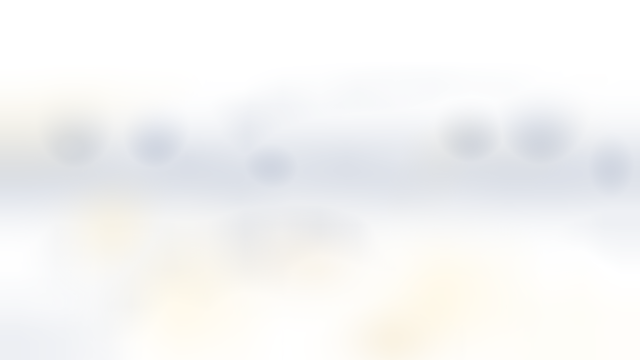
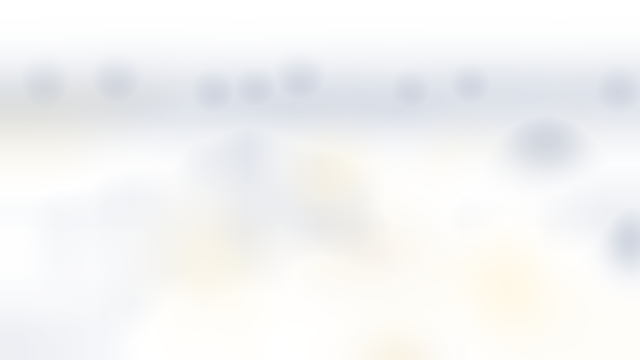
Pinewatch v16 fix pass: remove shore wedges, re-bake tintmap, attach picnic to van
- shore_islet + shore_edge_bank removed (read as broken floating
  terrain chunks); fishing gear now sits on grass bank
- tintmap re-baked for v16: treeline shade band y172 -> y95, canopy
  pools at new tree positions, drifts/pools updated — kills the
  ghost horizontal band mid-field + backdrop seam
- picnic cluster moved next to van (rest corner attaches to hero)
- tripod nudged so pot hangs over the flames
- leftmost tree scales balanced; right-edge broadleaf added (U-frame)
- PLAN 5.8: layout-authoring workflow decision recorded

diff --git a/tools/tb_tintmap.py b/tools/tb_tintmap.py
@@ -80,28 +80,34 @@ def bake():
     cool_a = np.clip(-f, 0.0, 1.0) * FIELD_A_COOL * sky
 
     # ---- 2. treeline shade + under-canopy pools ----------------------
-    band = np.exp(-((y - 172.0) / 46.0) ** 2)             # row-5 grass band
+    # v16 layout: broadleaf wall feet at y~68-80 -> shade band hugs the
+    # wall base and dies into the field by ~y140
+    band = np.exp(-((y - 100.0) / 42.0) ** 2)             # treeline foot band
     band *= 0.75 + 0.25 * smooth_noise(rng, 60)  # ragged edge
     shade = band * 0.85
-    for cx, cy, r, sx, sy in ((74, 150, 78, 1.0, 0.8),    # pine W
-                              (156, 150, 70, 1.0, 0.8),   # pine W2
-                              (540, 145, 80, 1.0, 0.8),   # pine E
-                              (610, 170, 70, 1.0, 0.9),   # bamboo/spirit E
-                              (470, 145, 62, 1.1, 0.85),  # cabin NE side
-                              (270, 168, 66, 1.2, 0.8)):  # flamboyant S
+    for cx, cy, r, sx, sy in ((44, 92, 70, 1.0, 0.8),     # tree W1
+                              (116, 88, 66, 1.0, 0.8),    # tree W2
+                              (214, 94, 62, 1.0, 0.8),    # tree W3
+                              (300, 86, 64, 1.0, 0.8),    # tree W4
+                              (255, 92, 60, 1.1, 0.8),    # flamboyant
+                              (410, 94, 62, 1.0, 0.8),    # tree W5
+                              (470, 88, 58, 1.0, 0.8),    # tree W6
+                              (618, 92, 66, 1.0, 0.8),    # tree E
+                              (545, 140, 72, 1.1, 0.85),  # cabin NE side
+                              (630, 240, 58, 0.8, 1.0)):  # right-edge tree
         shade = np.maximum(shade, blob(x, y, cx, cy, r, sx, sy))
     cool_a = np.maximum(cool_a, shade * SHADE_A)
 
     # ---- 3. dry-warm drifts ------------------------------------------
-    dry = np.maximum(blob(x, y, 390, 340, 60, 1.3, 0.8),  # path mouth
-                     blob(x, y, 300, 258, 78, 1.4, 0.9))  # tent/fire flat
+    dry = np.maximum(blob(x, y, 400, 360, 60, 1.3, 0.8),  # path mouth
+                     blob(x, y, 368, 250, 82, 1.4, 0.9))  # fire hub flat
     dry_a = dry * DRY_A
 
     # ---- 4. sun pools -------------------------------------------------
     sun = np.zeros((H, W))
-    for cx, cy, r in ((185, 292, 105),                    # open field W
-                      (445, 300, 96),                     # picnic side
-                      (112, 228, 74)):                    # van clearing
+    for cx, cy, r in ((210, 260, 95),                     # open field W
+                      (505, 285, 88),                     # van/rest side
+                      (330, 175, 70)):                    # centre field
         sun = np.maximum(sun, blob(x, y, cx, cy, r))
     sun_a = sun * SUN_A
 

diff --git a/docs/PLAN_art_craft.md b/docs/PLAN_art_craft.md
@@ -302,3 +302,22 @@ flecks. Needs a small shore-rock/reed gen (Phase 5 tail).
 **Plan order:** 5.1-interim filter → 5.0 lighting → 5.3 shadows →
 5.2 grain → 5.6 layering → 5.1 full asset rebake → 5.4 ambient →
 5.5 palette audit → 5.7 shore ring (small gen spend, last).
+
+### 5.8 Layout-authoring workflow — decision (2026-10-13)
+
+Composition is currently authored in data space (PROPS coords →
+render → eyeball → nudge). That took ~8 blind rounds on v16 —
+fine for ≤1 map, wrong at scale. SOTA for painted-bg games:
+**author in image space, decompose into data.** Options:
+
+| Approach | When it wins |
+|---|---|
+| Paintover spec (paint the frame, measure pixel pos, emit data) | One-off scenes; what art directors do |
+| **Godot .tscn as the composer** (drag sprites live, y-sort/shadows visible) | **This project** — the editor IS the tool; PROPS was scaffolding while assets churned |
+| Custom drag composer emitting JSON | ~10+ maps |
+
+Decision: keep PROPS while the asset set still churns; once the
+re-bake (5.1) lands and scales are frozen, migrate layout authoring
+into a Godot-editable scene so positions are edited visually, not
+numerically. Pinewatch v16+ fixes (wedge removal, tintmap re-bake,
+cluster attachment) were still cheap enough as monkey-patches.
